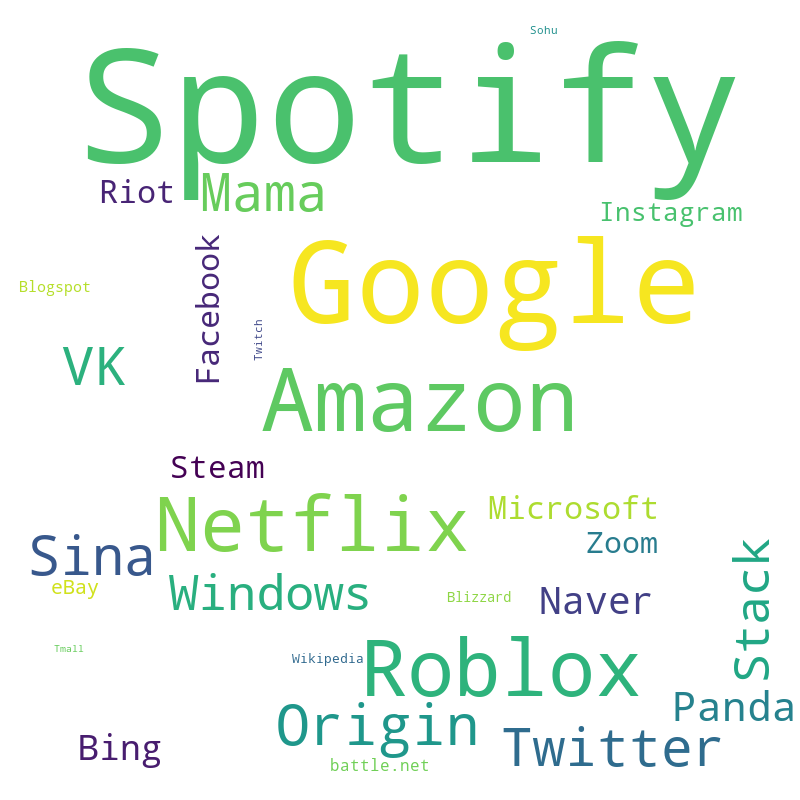
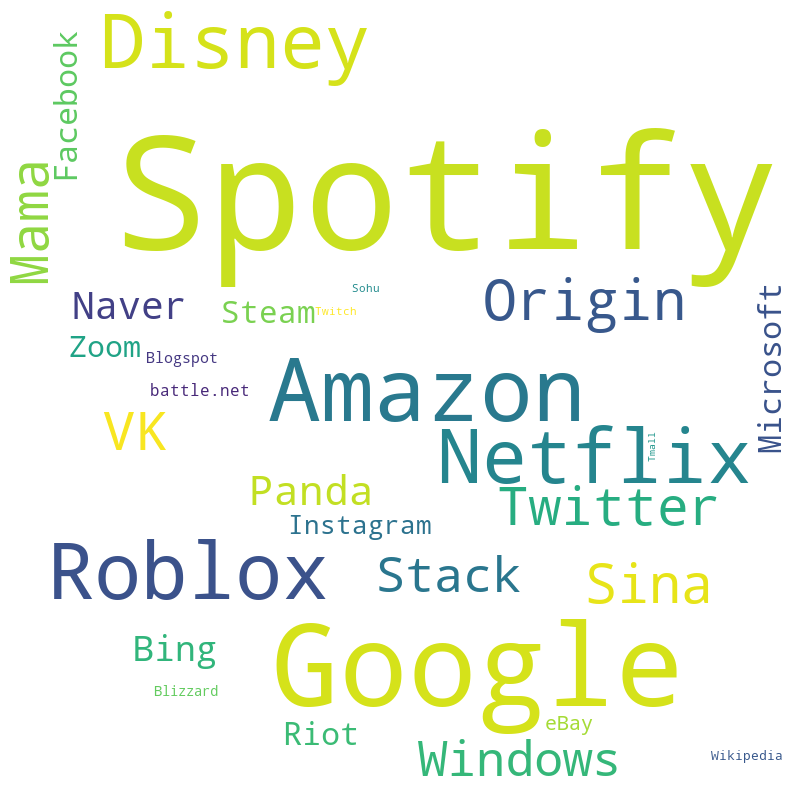
Update

diff --git a/_posts/2020-07-20-Scavenging-Passwords.md b/_posts/2020-07-20-Scavenging-Passwords.md
@@ -43,12 +43,12 @@ from datetime import datetime
 
 
 def get_args():
-    parser = argparse.ArgumentParser(description="",epilog="")
-    parser.add_argument('-f','--file',type=str, help="data file", required=True)
-    args = parser.parse_args()
-    file = args.file
+	parser = argparse.ArgumentParser(description="",epilog="")
+	parser.add_argument('-f','--file',type=str, help="data file", required=True)
+	args = parser.parse_args()
+	file = args.file
 
-    return file
+	return file
 
 
 def filter(line):
@@ -387,33 +387,33 @@ directory = "/home/keramas/Documents/scavenger_data/files_with_passwords/"
 data_accumulator = dict()
 counter = 1
 for dump_file in os.scandir(directory):
-        
-    with open(dump_file, 'r') as dump:
-        try:
-            dumpline = dump.readline()
-            print(f"Iterating over file {str(dump_file)} #{counter}/17784")
-            while dumpline:
-              
-                try:
-                    dumpline = str(dump.readline()).strip('\n')
-                    with open("/home/keramas/Documents/scavenger_data/service_list.txt", 'r') as service_list:
-                        service = service_list.readline()
-                    
-                        while service:
-                            service = str(service_list.readline()).strip('\n')
-                        
-                            for service in service_list:
-                                count = len(re.findall(service.strip(), dumpline.strip(), re.IGNORECASE))
-                                if service.strip() in data_accumulator:
-                                    data_accumulator[service.strip()] += count
-                                else:
-                                    data_accumulator[service.strip()] = count
-                except:
-                    pass
-        except:
-            pass
-    counter += 1
-    
+		
+	with open(dump_file, 'r') as dump:
+		try:
+			dumpline = dump.readline()
+			print(f"Iterating over file {str(dump_file)} #{counter}/17784")
+			while dumpline:
+			  
+				try:
+					dumpline = str(dump.readline()).strip('\n')
+					with open("/home/keramas/Documents/scavenger_data/service_list.txt", 'r') as service_list:
+						service = service_list.readline()
+					
+						while service:
+							service = str(service_list.readline()).strip('\n')
+						
+							for service in service_list:
+								count = len(re.findall(service.strip(), dumpline.strip(), re.IGNORECASE))
+								if service.strip() in data_accumulator:
+									data_accumulator[service.strip()] += count
+								else:
+									data_accumulator[service.strip()] = count
+				except:
+					pass
+		except:
+			pass
+	counter += 1
+	
 print(data_accumulator)
 ```
 Based on the returned dictionary output, this was placed through another Python script to generate a word map to illustrate the frequency of the online services.
@@ -428,7 +428,7 @@ Iterating over file <DirEntry 'b5XFaBMM_pastebincom'> #5/17784
 Iterating over file <DirEntry '6biAXZEY_pastebincom'> #6/17784
 [SNIP]
 Iterating over file <DirEntry 'qr38piad_pastebincom'> #17784/17784
-{'Tmall': 150, 'Facebook': 2361, 'Baidu': 26, 'Tencent': 39, 'Sohu': 202, 'Taobao': 84, 'Haosou': 1, 'Yahoo!': 10, 'Jingdong': 0, 'Wikipedia': 276, 'Amazon': 22876, 'Sina': 7778, 'Windows': 6209, 'Reddit': 109, 'Netflix': 16773, 'Zoom': 2023, 'Xinhua': 17, 'Okezone': 2, 'Blogspot': 412, 'Microsoft': 2388, 'VK': 7397, 'CSDN': 15, 'Instagram': 1502, 'Alipay': 29, 'Twitch': 184, 'Bing': 2858, 'Google': 42758, 'BongaCams': 0, 'LiveJasmin': 3, 'Tribun': 78, 'Panda': 4023, 'Twitter': 7430, 'Zhanqi': 1, 'Worldometer': 0, 'Stack': 6158, 'Naver': 3375, 'Tianya': 41, 'AliExpress': 25, 'eBay': 793, 'Mama': 7266, 'Spotify': 94017, 'Riot': 2432, 'battle.net': 443, 'Blizzard': 342, 'Roblox': 18447, 'Origin': 8231, 'Steam': 2178}
+{'Tmall': 150, 'Facebook': 2361, 'Baidu': 26, 'Tencent': 39, 'Sohu': 202, 'Taobao': 84, 'Haosou': 1, 'Yahoo!': 10, 'Jingdong': 0, 'Wikipedia': 276, 'Amazon': 22876, 'Sina': 7778, 'Windows': 6209, 'Reddit': 109, 'Netflix': 16773, 'Zoom': 2023, 'Xinhua': 17, 'Okezone': 2, 'Blogspot': 412, 'Microsoft': 2388, 'VK': 7397, 'CSDN': 15, 'Instagram': 1502, 'Alipay': 29, 'Twitch': 184, 'Bing': 2858, 'Google': 42758, 'BongaCams': 0, 'LiveJasmin': 3, 'Tribun': 78, 'Panda': 4023, 'Twitter': 7430, 'Zhanqi': 1, 'Worldometer': 0, 'Stack': 6158, 'Naver': 3375, 'Tianya': 41, 'AliExpress': 25, 'eBay': 793, 'Mama': 7266, 'Spotify': 94017, 'Riot': 2432, 'battle.net': 443, 'Blizzard': 342, 'Roblox': 18447, 'Origin': 8231, 'Steam': 2178, 'Disney': 16586}
 ```
 
 ```python
@@ -437,15 +437,16 @@ import matplotlib.pyplot as plt
 import pandas as pd
 from PIL import Image
 
-data_dict = {'Tmall': 150, 'Facebook': 2361, 'Baidu': 26, 'Tencent': 39, 'Sohu': 202, 'Taobao': 84, 'Haosou': 1, 'Yahoo!': 10, 'Jingdong': 0, 'Wikipedia': 276, 'Amazon': 22876, 'Sina': 7778, 'Windows': 6209, 'Reddit': 109, 'Netflix': 16773, 'Zoom': 2023, 'Xinhua': 17, 'Okezone': 2, 'Blogspot': 412, 'Microsoft': 2388, 'VK': 7397, 'CSDN': 15, 'Instagram': 1502, 'Alipay': 29, 'Twitch': 184, 'Bing': 2858, 'Google': 42758, 'BongaCams': 0, 'LiveJasmin': 3, 'Tribun': 78, 'Panda': 4023, 'Twitter': 7430, 'Zhanqi': 1, 'Worldometer': 0, 'Stack': 6158, 'Naver': 3375, 'Tianya': 41, 'AliExpress': 25, 'eBay': 793, 'Mama': 7266, 'Spotify': 94017, 'Riot': 2432, 'battle.net': 443, 'Blizzard': 342, 'Roblox': 18447, 'Origin': 8231, 'Steam': 2178}
+data_dict = {'Tmall': 150, 'Facebook': 2361, 'Baidu': 26, 'Tencent': 39, 'Sohu': 202, 'Taobao': 84, 'Haosou': 1, 'Yahoo!': 10, 'Jingdong': 0, 'Wikipedia': 276, 'Amazon': 22876, 'Sina': 7778, 'Windows': 6209, 'Reddit': 109, 'Netflix': 16773, 'Zoom': 2023, 'Xinhua': 17, 'Okezone': 2, 'Blogspot': 412, 'Microsoft': 2388, 'VK': 7397, 'CSDN': 15, 'Instagram': 1502, 'Alipay': 29, 'Twitch': 184, 'Bing': 2858, 'Google': 42758, 'BongaCams': 0, 'LiveJasmin': 3, 'Tribun': 78, 'Panda': 4023, 'Twitter': 7430, 'Zhanqi': 1, 'Worldometer': 0, 'Stack': 6158, 'Naver': 3375, 'Tianya': 41, 'AliExpress': 25, 'eBay': 793, 'Mama': 7266, 'Spotify': 94017, 'Riot': 2432, 'battle.net': 443, 'Blizzard': 342, 'Roblox': 18447, 'Origin': 8231, 'Steam': 2178, 'Disney': 16586}
+
 
 service_names = ''
 stopwords = set(STOPWORDS)
 
 wordcloud = WordCloud(width = 800, height = 800, 
-                background_color ='white', 
-                stopwords = stopwords, 
-                min_font_size = 10).generate_from_frequencies(data_dict) 
+				background_color ='white', 
+				stopwords = stopwords, 
+				min_font_size = 10).generate_from_frequencies(data_dict) 
   
 plt.figure(figsize = (8, 8), facecolor = None) 
 plt.imshow(wordcloud) 
@@ -454,7 +455,6 @@ plt.tight_layout(pad = 0)
   
 plt.show() 
 ```
-
 <img src = "/assets/images/scavenger/service_wordcloud.png">
 
 People sure seem to be gunning for that free Spotify this past year! 
